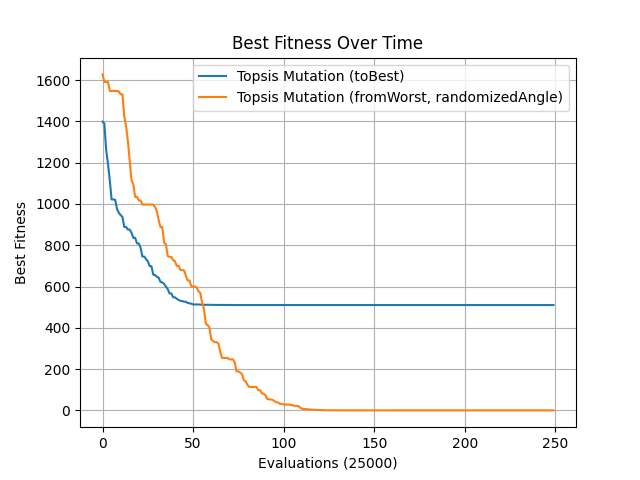
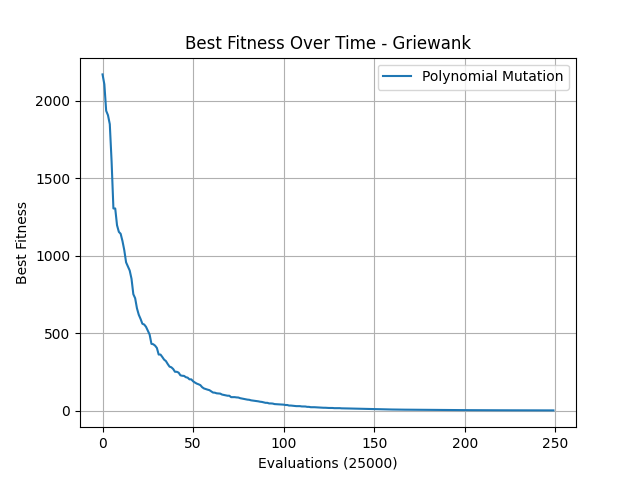
Griewank and Rosenbrock

diff --git a/topsis_mutation/main.py b/topsis_mutation/main.py
@@ -14,6 +14,8 @@ from topsis_mutation.mutations.topsis_mutation import TopsisMutation
 from jmetal.problem.singleobjective.unconstrained import Rastrigin
 from topsis_mutation.problems.ackley import Ackley
 from topsis_mutation.problems.schwefel import Schwefel
+from topsis_mutation.problems.rosenbrock import Rosenbrock
+from topsis_mutation.problems.griewank import Griewank
 
 class CustomGeneticAlgorithm(GeneticAlgorithm):
 
@@ -88,9 +90,11 @@ class Application(tk.Tk):
         ttk.Label(general_frame, text="Problem Type:").grid(row=1, column=0)
         self.problem_type = tk.StringVar()
         self.problem_type.set("rastrigin")
-        ttk.Radiobutton(general_frame, text="Rastrigin", variable=self.problem_type, value="rastrigin").grid(row=1, column=1, padx=5, pady=5)
-        ttk.Radiobutton(general_frame, text="Ackley", variable=self.problem_type, value="ackley").grid(row=1, column=2, padx=5, pady=5)
-        ttk.Radiobutton(general_frame, text="Schwefel", variable=self.problem_type, value="schwefel").grid(row=1, column=3, padx=5, pady=5)
+        ttk.Radiobutton(general_frame, text="Rastrigin", variable=self.problem_type, value="Rastrigin").grid(row=1, column=1, padx=5, pady=5)
+        ttk.Radiobutton(general_frame, text="Ackley", variable=self.problem_type, value="Ackley").grid(row=1, column=2, padx=5, pady=5)
+        ttk.Radiobutton(general_frame, text="Schwefel", variable=self.problem_type, value="Schwefel").grid(row=1, column=3, padx=5, pady=5)
+        ttk.Radiobutton(general_frame, text="Rosenbrock", variable=self.problem_type, value="Rosenbrock").grid(row=1, column=4, padx=5, pady=5)
+        ttk.Radiobutton(general_frame, text="Griewank", variable=self.problem_type, value="Griewank").grid(row=1, column=5, padx=5, pady=5)
 
         # Number of variables
         ttk.Label(general_frame, text="Number of Variables:").grid(row=2, column=0, padx=5, pady=5)
@@ -250,12 +254,16 @@ class Application(tk.Tk):
         # Initialize the problem
         problem_type = self.problem_type.get()
         match problem_type:
-            case "rastrigin":
+            case "Rastrigin":
                 problem = Rastrigin(number_of_variables=number_of_variables)
-            case "ackley":
+            case "Ackley":
                 problem = Ackley(number_of_variables=number_of_variables)
-            case "schwefel":
+            case "Schwefel":
                 problem = Schwefel(number_of_variables=number_of_variables)
+            case "Rosenbrock":
+                problem = Rosenbrock(number_of_variables=number_of_variables)
+            case "Griewank":
+                problem = Griewank(number_of_variables=number_of_variables)
             case _:
                 problem = Rastrigin(number_of_variables=number_of_variables)
 
@@ -395,7 +403,7 @@ class Application(tk.Tk):
             selected_vars = {k: v for k, v in topsis3_params.items() if k in ["toBest", "fromWorst", "randomizedAngle", "randomizedPoint"]}
             options_str = ", ".join(opt for opt, value in selected_vars.items() if value)
             plt.plot(topsis3_history_avg, label=f"Topsis Mutation ({options_str})")
-        plt.title("Best Fitness Over Time")
+        plt.title(f"Best Fitness Over Time - {problem_type}")
         plt.xlabel(f"Evaluations ({max_evaluations})")
         plt.ylabel("Best Fitness")
         plt.legend()

diff --git a/topsis_mutation/problems/griewank.py b/topsis_mutation/problems/griewank.py
@@ -1,0 +1,31 @@
+import math
+from jmetal.core.problem import FloatProblem
+from jmetal.core.solution import FloatSolution
+
+class Griewank(FloatProblem):
+    def __init__(self, number_of_variables: int = 2):
+        super(Griewank, self).__init__()
+        self.number_of_variables = number_of_variables
+        self.number_of_objectives = 1
+        self.number_of_constraints = 0
+
+        self.obj_directions = [self.MINIMIZE]
+        self.obj_labels = ['f(x)']
+
+        self.lower_bound = [-600.0] * number_of_variables
+        self.upper_bound = [600.0] * number_of_variables
+
+    def evaluate(self, solution: FloatSolution) -> FloatSolution:
+        x = solution.variables
+
+        sum_term = sum([xi**2 / 4000 for xi in x])
+        prod_term = math.prod([math.cos(xi / math.sqrt(i + 1)) for i, xi in enumerate(x)])
+
+        result = sum_term - prod_term + 1
+
+        solution.objectives[0] = result
+
+        return solution
+
+    def get_name(self) -> str:
+        return 'Griewank'

diff --git a/topsis_mutation/problems/rosenbrock.py b/topsis_mutation/problems/rosenbrock.py
@@ -1,0 +1,27 @@
+from jmetal.core.problem import FloatProblem
+from jmetal.core.solution import FloatSolution
+
+class Rosenbrock(FloatProblem):
+    def __init__(self, number_of_variables: int = 2):
+        super(Rosenbrock, self).__init__()
+        self.number_of_variables = number_of_variables
+        self.number_of_objectives = 1
+        self.number_of_constraints = 0
+
+        self.obj_directions = [self.MINIMIZE]
+        self.obj_labels = ['f(x)']
+
+        self.lower_bound = [-5.0] * number_of_variables
+        self.upper_bound = [10.0] * number_of_variables
+
+    def evaluate(self, solution: FloatSolution) -> FloatSolution:
+        x = solution.variables
+
+        result = sum([100 * (x[i+1] - x[i]**2)**2 + (1 - x[i])**2 for i in range(self.number_of_variables - 1)])
+
+        solution.objectives[0] = result
+
+        return solution
+
+    def get_name(self) -> str:
+        return 'Rosenbrock'
